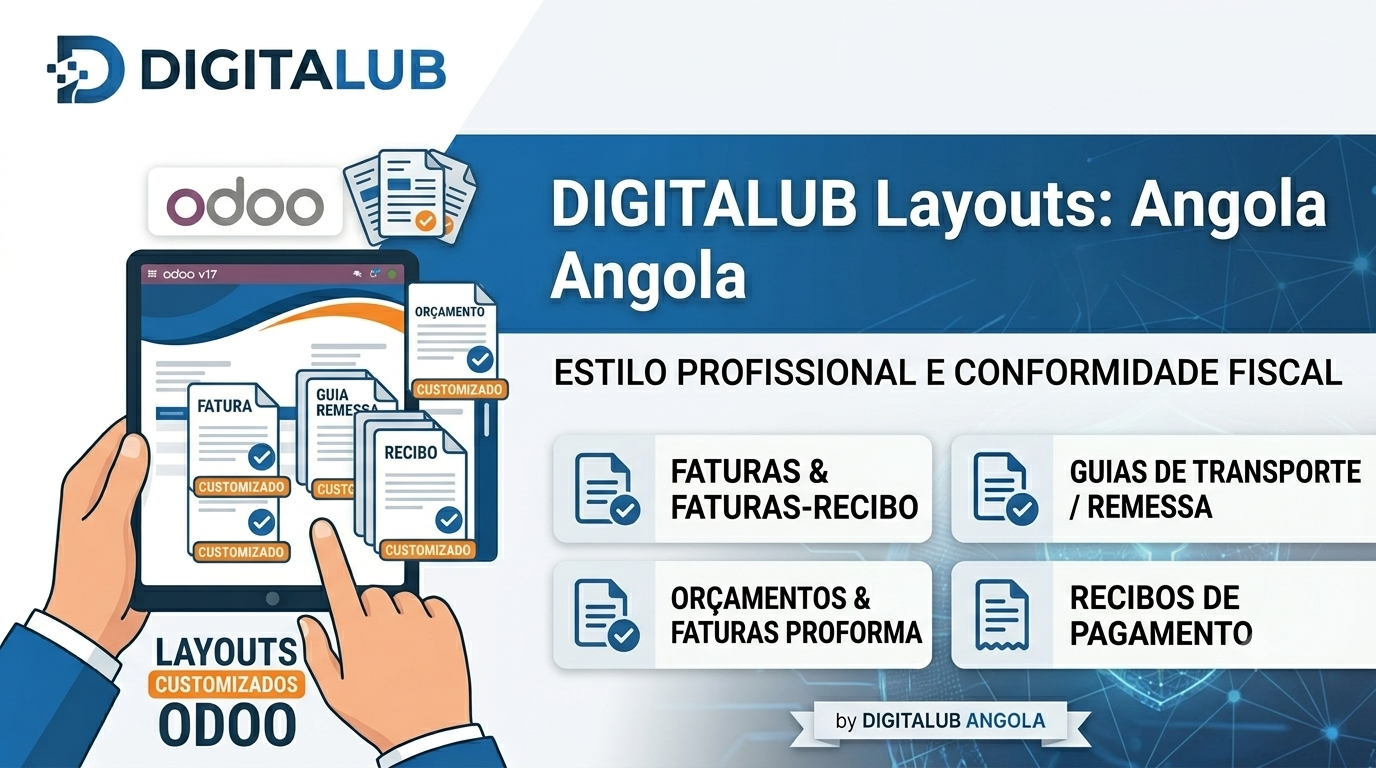
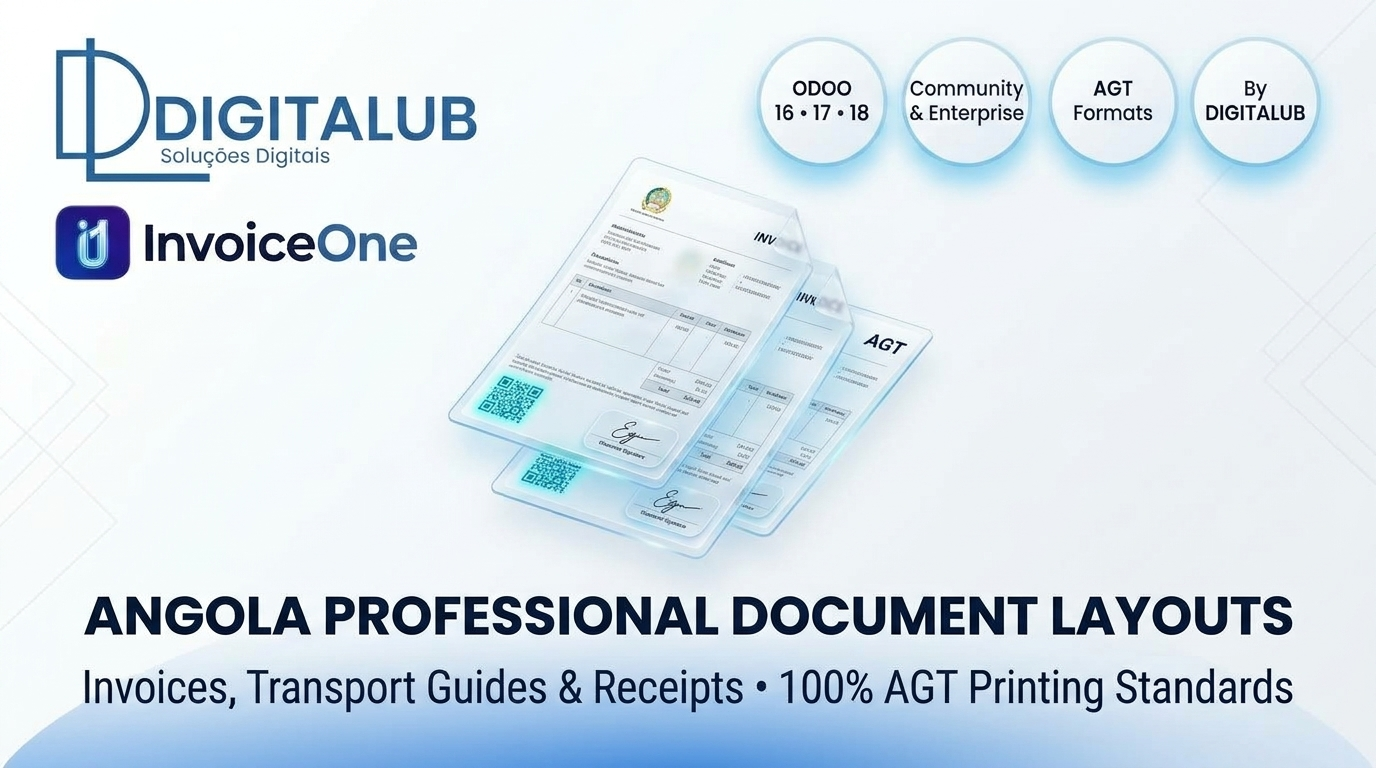
feat: apply Digitalub Master Visual Rebranding & Pricing Strategy

diff --git a/dl_layouts_ao/static/description/index.html b/dl_layouts_ao/static/description/index.html
@@ -1,3 +1,6 @@
+<div style="text-align: center; margin: 20px auto 35px auto; max-width: 1200px;">
+    <img src="banner.png" alt="Official Banner" style="width: 100%; border-radius: 12px; box-shadow: 0 10px 30px rgba(0,0,0,0.08);" />
+</div>
 <section class="oe_container" style="font-family: 'Montserrat', 'Segoe UI', Roboto, sans-serif; background-color: #ffffff;">
     
     <div class="row mt-4 mb-3">

diff --git a/dl_layouts_ao/__manifest__.py b/dl_layouts_ao/__manifest__.py
@@ -1,8 +1,8 @@
 # -*- coding: utf-8 -*-
 # Formerly: opc_layouts_aov17
 {
-    'name': "Angola - DIGITALUB Layouts",
-    'summary': """Layouts de Documentos Fiscais Certificados para o Mercado de Angola""",
+    'name': 'Angola Invoice & Document Layouts (AGT Compliant)',
+    'summary': 'Certified Fiscal Document Layouts & Reports for Angola Market (AGT Compliant)',
     'description': """
 Modelos e Layouts Visuais Customizados para Documentos Fiscais
 =============================================================
@@ -18,9 +18,9 @@ Inclui melhorias e designs exclusivos para:
     'author': "DIGITALUB ANGOLA, LDA",
     'website': "https://www.digitalub.ao",
     'category': 'Accounting/Localizations',
-    'version': '17.0.1.0.3',
+    'version': '17.0.1.0.4',
     'license': 'OPL-1',           # Licença comercial para a Odoo Store
-    'price': 80,                # Preço sugerido do add-on de layouts
+    'price': 65.0,                # Preço sugerido do add-on de layouts
     'currency': 'EUR',
     
     # Dependências (já refletindo o novo nome do seu módulo core)
